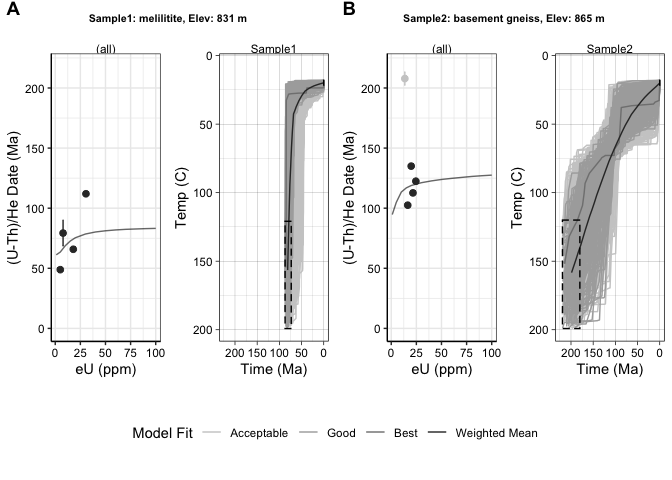
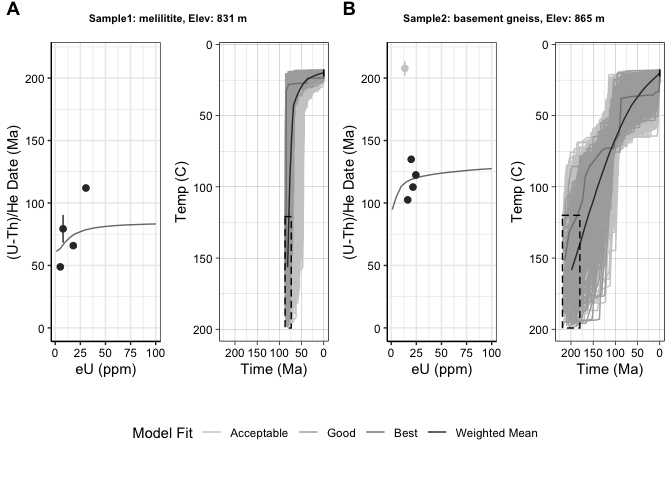
updated shuffle_plots so that Sample could be a factor and plot order can be customized. Upldated documentation to reflect changes. Also got rid of individual facet labels in the shuffled plot.

diff --git a/README.md b/README.md
@@ -38,6 +38,28 @@ This is a basic example which shows you how to solve a common problem:
 ``` r
 library(thermochronplotr)
 #> Loading required package: rlang
+library(tidyverse)
+#> ── Attaching packages ───────────────────────────────── tidyverse 1.3.0 ──
+#> ✓ ggplot2 3.3.2     ✓ purrr   0.3.4
+#> ✓ tibble  3.0.3     ✓ dplyr   1.0.0
+#> ✓ tidyr   1.1.0     ✓ stringr 1.4.0
+#> ✓ readr   1.3.1     ✓ forcats 0.5.0
+#> ── Conflicts ──────────────────────────────────── tidyverse_conflicts() ──
+#> x purrr::%@%()         masks rlang::%@%()
+#> x purrr::as_function() masks rlang::as_function()
+#> x dplyr::filter()      masks stats::filter()
+#> x purrr::flatten()     masks rlang::flatten()
+#> x purrr::flatten_chr() masks rlang::flatten_chr()
+#> x purrr::flatten_dbl() masks rlang::flatten_dbl()
+#> x purrr::flatten_int() masks rlang::flatten_int()
+#> x purrr::flatten_lgl() masks rlang::flatten_lgl()
+#> x purrr::flatten_raw() masks rlang::flatten_raw()
+#> x purrr::invoke()      masks rlang::invoke()
+#> x dplyr::lag()         masks stats::lag()
+#> x purrr::list_along()  masks rlang::list_along()
+#> x purrr::modify()      masks rlang::modify()
+#> x purrr::prepend()     masks rlang::prepend()
+#> x purrr::splice()      masks rlang::splice()
 ```
 
 ### Single HeFTy inversion plot
@@ -174,4 +196,15 @@ plot5
 
 <img src="man/figures/README-unnamed-chunk-7-1.png" width="100%" /> Axis
 limits are the same across the shuffled grid and can be input manually
-or are calculated from the total dataset
+or are calculated from the total dataset. You can also change the order
+in which the samples are plotted by making the “Sample” column of `hedf`
+into a factor with custom levels. For
+example:
+
+``` r
+hedf2 = hedf %>%  mutate(Sample = factor(Sample,levels=c('Sample2', 'Sample1')))
+plot6 = shuffle_plots(hedf2,bestfitdf,dfplot2,cons2)
+plot6
+```
+
+<img src="man/figures/README-unnamed-chunk-8-1.png" width="100%" />
